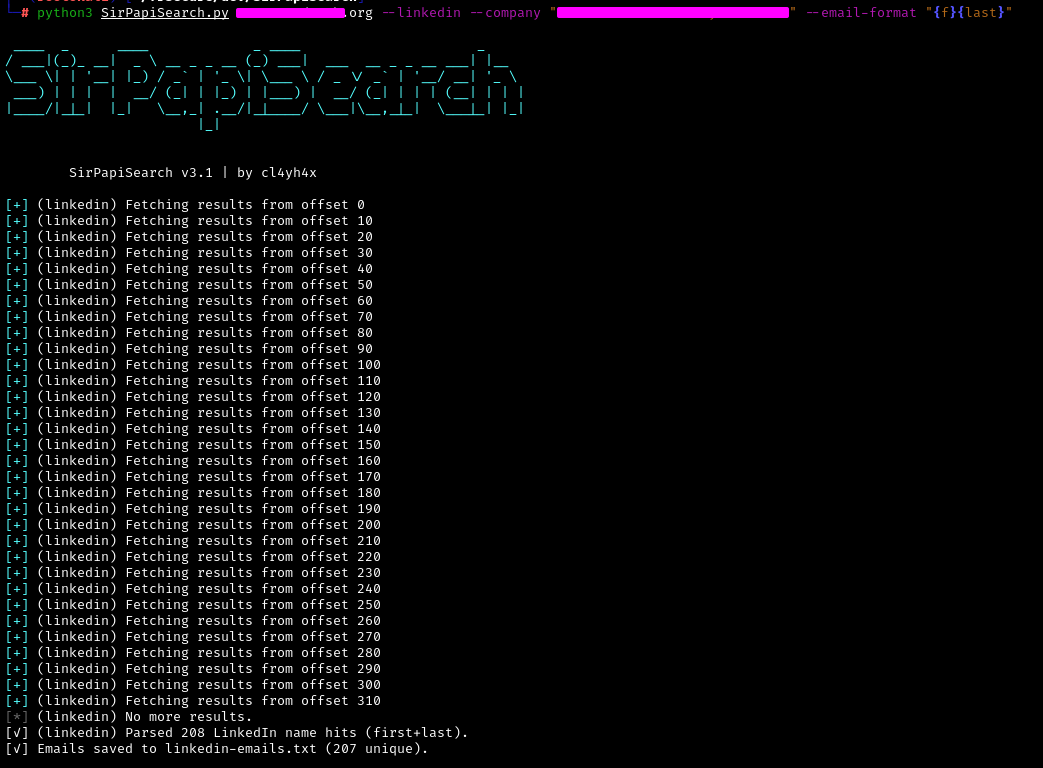
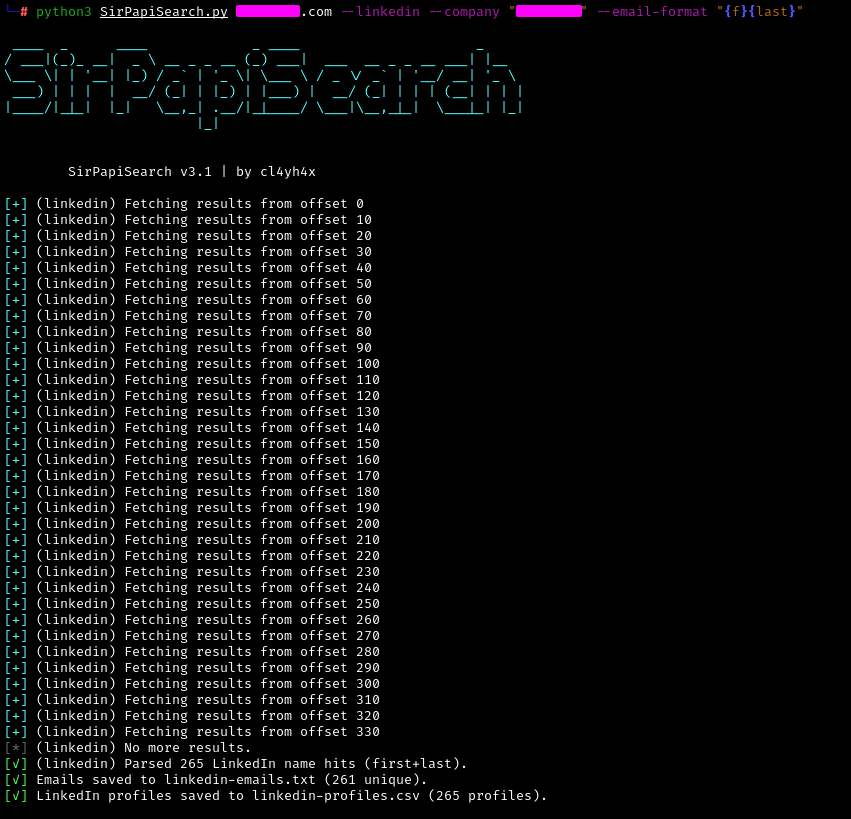
added linkedin profile url export to csv

diff --git a/SirPapiSearch.py b/SirPapiSearch.py
@@ -283,7 +283,7 @@ def render_email(fmt: str, first: str, last: str, email_domain: str | None = Non
     return out
 
 
-def linkedin_search_names(company: str, api_key: str, max_results: int, sleep_s: float) -> list[tuple[str, str, str]]:
+def linkedin_search_names(company: str, api_key: str, max_results: int, sleep_s: float) -> list[tuple[str, str, str, str]]:
     query = f'site:linkedin.com/in "{company}"'
     urls_seen = set()
     results_out = []
@@ -322,7 +322,7 @@ def linkedin_search_names(company: str, api_key: str, max_results: int, sleep_s:
             if not first or not last:
                 continue
 
-            results_out.append((link, first, last))
+            results_out.append((link, title, first, last))
 
         time.sleep(sleep_s)
 
@@ -994,6 +994,12 @@ def main():
                         help="Optional override: email domain to use for --linkedin mode. If omitted, uses positional <domain> argument.")
     parser.add_argument("--out-emails", default="linkedin-emails.txt",
                         help="Output file for generated emails (default: linkedin-emails.txt)")
+                        
+    parser.add_argument(
+        "--out-profiles",
+        default="linkedin-profiles.csv",
+        help="Output CSV for LinkedIn source profiles (default: linkedin-profiles.csv)"
+    )
 
     parser.add_argument(
         "--types",
@@ -1054,18 +1060,54 @@ def main():
         success(f"(linkedin) Parsed {len(contacts)} LinkedIn name hits (first+last).")
 
         emails = set()
-        for (url, first, last) in contacts:
+        for (url, title, first, last) in contacts:
             try:
-                emails.add(render_email(args.email_format, first, last, effective_email_domain))
+                emails.add(
+                    render_email(
+                        args.email_format,
+                        first,
+                        last,
+                        effective_email_domain
+                    )
+                )
             except Exception as e:
-                print(f"[-] (linkedin) Failed rendering email for {first} {last} ({url}): {e}")
+                error(
+                    f"(linkedin) Failed rendering email for "
+                    f"{first} {last} ({url}): {e}"
+                )
 
         sorted_emails = sorted(emails)
+        # write linkedin-emails.txt
         with open(args.out_emails, "w", encoding="utf-8") as f:
             for e in sorted_emails:
                 f.write(e + "\n")
 
         success(f"Emails saved to {args.out_emails} ({len(sorted_emails)} unique).")
+        
+        # Write LinkedIn profile/source information for auditing
+        with open(args.out_profiles, "w", newline="", encoding="utf-8") as csvfile:
+            writer = csv.writer(csvfile)
+
+            writer.writerow([
+                "LinkedInURL",
+                "GoogleTitle",
+                "FirstName",
+                "LastName"
+            ])
+
+            for url, title, first, last in contacts:
+                writer.writerow([
+                    url,
+                    title,
+                    first,
+                    last
+                ])
+
+        success(
+            f"LinkedIn profiles saved to {args.out_profiles} "
+            f"({len(contacts)} profiles)."
+        )
+
         return  # will not proceed automatically with file enumeration afterward in linkedin mode
 
     # ---------------- File Enumeration Mode (default) ----------------
